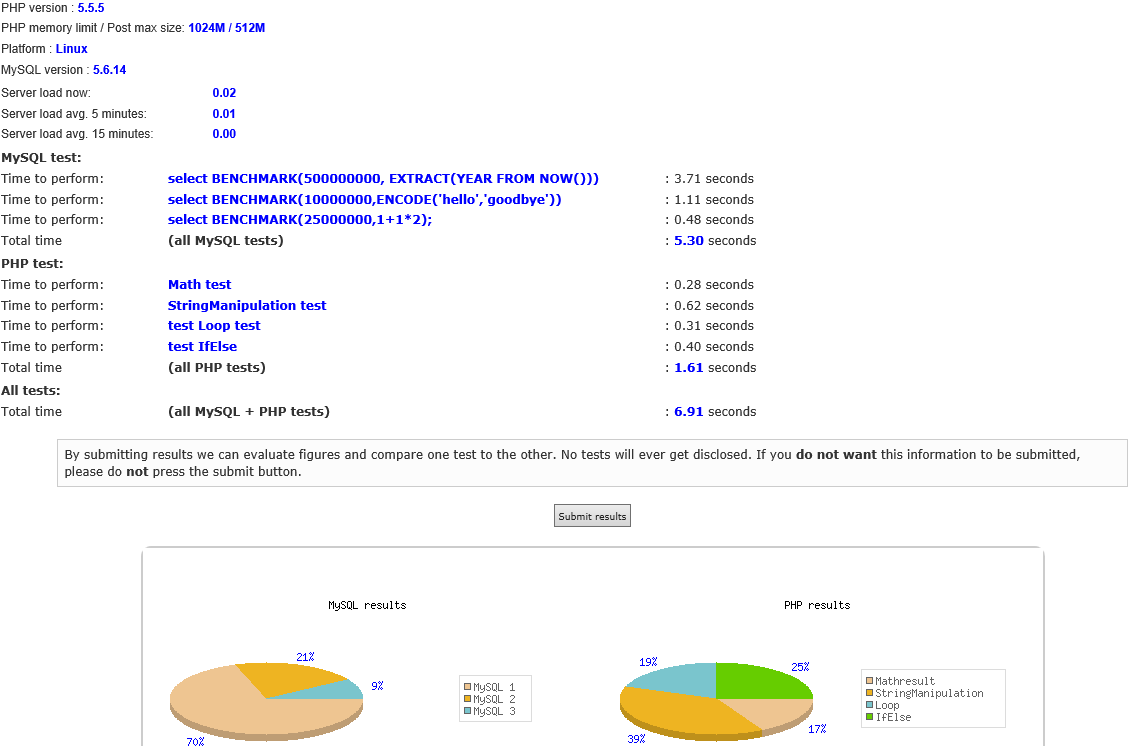
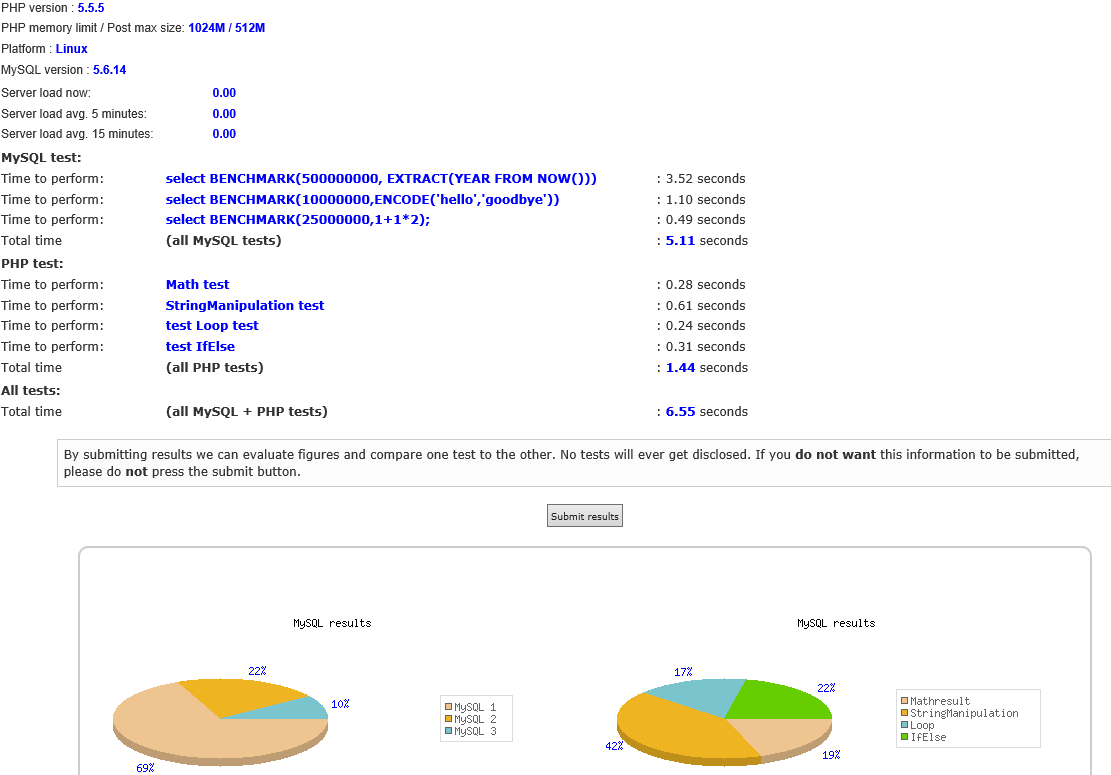
just a minor update..
git-svn-id: https://plugins.svn.wordpress.org/mywebtonet-performancestats/trunk@798474 b8457f37-d9ea-0310-8a92-e5e31aec5664

diff --git a/mywebtonet-performancestats.php b/mywebtonet-performancestats.php
@@ -12,7 +12,16 @@ Version: 1.0.4
 Author URI: http://www.mywebtonet.com 
 */
 
-$showtest	= $_GET["showtest"];
+// $showtest	= $_GET["showtest"];
+
+
+$ourdatamysql53 = array("MySQL 1" => 3.52,"MySQL 2" => 1.10,"MySQL 3" => 0.48);	
+$ourdatamysql54 = array("MySQL 1" => 3.53,"MySQL 2" => 1.13,"MySQL 3" => 0.50);	
+$ourdatamysql55 = array("MySQL 1" => 3.52,"MySQL 2" => 1.10,"MySQL 3" => 0.49);	
+$ourdataphp53 = array("PHP 1" => 1.45,"PHP 2" => 0.70,"PHP 3" => 0.40,"PHP 4" => 0.66);	
+$ourdataphp54 = array("PHP 1" => 0.29,"PHP 2" => 0.64,"PHP 3" => 0.29,"PHP 4" => 0.37);	
+$ourdataphp55 = array("PHP 1" => 0.28,"PHP 2" => 0.61,"PHP 3" => 0.24,"PHP 4" => 0.31);	
+
 
 if ( !defined('ABSPATH') ) {
 	echo "<center>You cant do this";
@@ -33,11 +42,14 @@ function myweb_init() {
                      
 function mywebtonetperftest_showfromdb($showtype) {
 	global $wpdb;
+	global $ourdatamysql55;
+	global $ourdataphp55;
+
 	$tableprefix = $wpdb->prefix."mywebtonetperfstatsresults";
 	mywebtonetperftest_createtable();
 	?>
 	<center>
-	<br><br>
+	
 	<?
 	if ($showtype == "fast") {
 		$headertext = "Best time";
@@ -56,7 +68,7 @@ function mywebtonetperftest_showfromdb($showtype) {
 	}
 
 	?>
-	<h3><? echo $headertext?></h3>
+	<br><br><h3><? echo $headertext?></h3>
 	<table width='90%' cellpadding=2 cellspacing=2 style='background: #FFFFFF;border-radius:10px;-moz-border-radius:10px;-webkit-border-radius:10px;border: 2px solid #cccccc;'>
 	<tr><td width=50%>
 	<table border=0>
@@ -94,20 +106,18 @@ function mywebtonetperftest_showfromdb($showtype) {
 	<?
 		$datamysql = array("MySQL 1" => $getdata->mysql1,"MySQL 2" => $getdata->mysql2,"MySQL 3" => $getdata->mysql3);	
 		$dataphp = array("PHP 1" => $getdata->php1,"PHP 2" => $getdata->php2,"PHP 3" => $getdata->php3,"PHP 4" => $getdata->php4);	
-		$ourdatamysql = array("MySQL 1" => 3.22,"MySQL 2" => 1.06,"MySQL 3" => 0.44);	
-		$ourdataphp = array("PHP 1" => 0.28,"PHP 2" => 0.59,"PHP 3" => 0.24,"PHP 4" => 0.29);	
 
 	?>		
 		<td valign='top' align='left'>
 			<table>
 			<tr>
 			<td><img src="<?php echo MYWEB_URL; ?>showgraphpie.php?showsmall=1&header=<?php echo urlencode(serialize("MySQL results")); ?>&mydata=<?php echo urlencode(serialize($datamysql)); ?>" /></td>
-			<td><img src="<?php echo MYWEB_URL; ?>showgraphpie.php?showsmall=1&header=<?php echo urlencode(serialize("PHP results")); ?>&mydata=<?php echo urlencode(serialize($dataphp)); ?>" /></td>
+			<td><img src="<?php echo MYWEB_URL; ?>showgraphpie.php?showsmall=1&header=<?php echo urlencode(serialize("MySQL results")); ?>&mydata=<?php echo urlencode(serialize($dataphp)); ?>" /></td>
 			<br>
 			</tr>
 			<tr>	
-			<td><img src="<?php echo MYWEB_URL; ?>showgraph.php?showsmall=1&header=<?php echo urlencode(serialize("MySQL results")); ?>&mywebdata=<?php echo urlencode(serialize($ourdatamysql));?>&mydata=<?php echo urlencode(serialize($datamysql)); ?>" /></td>
-			<td><img src="<?php echo MYWEB_URL; ?>showgraph.php?showsmall=1&header=<?php echo urlencode(serialize("PHP results")); ?>&mywebdata=<?php echo urlencode(serialize($ourdataphp)); ?>&mydata=<?php echo urlencode(serialize($dataphp)); ?>" /></td>
+			<td><img src="<?php echo MYWEB_URL; ?>showgraph.php?showsmall=1&header=<?php echo urlencode(serialize("Your data is the blue graph")); ?>&mywebdata=<?php echo urlencode(serialize($ourdatamysql55));?>&mydata=<?php echo urlencode(serialize($datamysql)); ?>" /></td>
+			<td><img src="<?php echo MYWEB_URL; ?>showgraph.php?showsmall=1&header=<?php echo urlencode(serialize("Your data is the blue graph")); ?>&mywebdata=<?php echo urlencode(serialize($ourdataphp55)); ?>&mydata=<?php echo urlencode(serialize($dataphp)); ?>" /></td>
 			</tr>	
 			</table>		
 		</td>
@@ -119,13 +129,53 @@ function mywebtonetperftest_showfromdb($showtype) {
 
 function mywebtonetperftest_showlist() {
 	global $wpdb;
+	global $ourdatamysql53;
+	global $ourdatamysql54;
+	global $ourdatamysql55;
+	global $ourdataphp53;
+	global $ourdataphp54;
+	global $ourdataphp55;
 	mywebtonetperftest_createtable();
+	$mysqltotal53 = sprintf("%10.2f",$ourdatamysql53["MySQL 1"] + $ourdatamysql53["MySQL 2"] + $ourdatamysql53["MySQL 3"]);
+	$mysqltotal54 = sprintf("%10.2f",$ourdatamysql54["MySQL 1"] + $ourdatamysql54["MySQL 2"] + $ourdatamysql54["MySQL 3"]);
+	$mysqltotal55 = sprintf("%10.2f",$ourdatamysql55["MySQL 1"] + $ourdatamysql55["MySQL 2"] + $ourdatamysql55["MySQL 3"]);
+	$phptotal53 = sprintf("%10.2f",$ourdataphp53["PHP 1"] + $ourdataphp53["PHP 2"] + $ourdataphp53["PHP 3"]  + $ourdataphp53["PHP 4"]);
+	$phptotal54 = sprintf("%10.2f",$ourdataphp54["PHP 1"] + $ourdataphp54["PHP 2"] + $ourdataphp54["PHP 3"]  + $ourdataphp54["PHP 4"]);
+	$phptotal55 = sprintf("%10.2f",$ourdataphp55["PHP 1"] + $ourdataphp55["PHP 2"] + $ourdataphp55["PHP 3"]  + $ourdataphp55["PHP 4"]);
 	$tableprefix = $wpdb->prefix."mywebtonetperfstatsresults";
+	$totaltime53 = sprintf("%10.2f",$mysqltotal53+$phptotal53);
+	$totaltime54 = sprintf("%10.2f",$mysqltotal54+$phptotal54);
+	$totaltime55 = sprintf("%10.2f",$mysqltotal55+$phptotal55);
 	?>
 	<br><br>
-	<table width='90%' cellpadding=2 cellspacing=2 style='background: #FFFFFF;border-radius:10px;-moz-border-radius:10px;-webkit-border-radius:10px;border: 2px solid #cccccc;'>
+	<table width='90%' border=1 cellpadding=2 cellspacing=2 style='background: #FFFFFF;border-radius:10px;-moz-border-radius:10px;-webkit-border-radius:10px;border: 2px solid #cccccc;'>
 	<tr><td>Time of test</td><td>Server name</td><td>Server addr</td><td>PHP version</td><td>MySQL version</td><td>MySQL test time</td><td>PHP Test time</td><td>Total time</td></tr>	
-	<?	
+	<?
+	echo "<tr><td>Sunday 3rd November 2013 23:45:11</td>
+		<td>MyWebToNet PHP 5.3 server</td>
+		<td>81.19.232.65</td><td>5.3.27</td>
+		<td>5.6.14</td>
+		<td>$mysqltotal53</td>
+		<td>$phptotal53</td>
+		<td><font color='blue'><b>$totaltime53</b></font></td>
+		</tr>";
+	echo "<tr><td>Sunday 3rd November 2013 23:44:21</td>
+		<td>MyWebToNet PHP 5.4 server</td>
+		<td>81.19.232.55</td><td>5.4.21</td>
+		<td>5.6.14</td>
+		<td>$mysqltotal54</td>
+		<td>$phptotal54</td>
+		<td><font color='blue'><b>$totaltime54</b></font></td>
+		</tr>";
+	echo "<tr><td>Sunday 3rd November 2013 23:48:33</td>
+		<td>MyWebToNet PHP 5.5 server</td>
+		<td>81.7.161.141</td><td>5.5.5</td>
+		<td>5.6.14</td>
+		<td>$mysqltotal55</td>
+		<td>$phptotal55</td>
+		<td><font color='blue'><b>$totaltime55</b></font></td>
+		</tr>";
+	
 	
 	$getdata = $wpdb->get_results("select sum(mysql1+mysql2+mysql3) as mysqlresult,sum(php1+php2+php3+php4) as phpresult,uniqid, servername, serveraddr, memorylimit,phpversion,postmaxsize,mysqlversion,phpos,serverloadnow,serverload5,serverload15,mysql1,mysql2,mysql3,php1,php2,php3,php4,deleteable,DATE_FORMAT(dt, '%W %D %M %Y %T') as tt,phpuname from $tableprefix group by uniqid order by dt asc;");
 	foreach ( $getdata as $getdata ) {
@@ -215,6 +265,8 @@ function mywebtonetperftest_plugin_all() {
 	global $testifelseresult;
 	global $mysqltemp;
 	global $mysqlresults;
+	global $ourdatamysql55;
+	global $ourdataphp55;
 	//	
 	$servername	= $_SERVER['SERVER_NAME'];
 	$serveraddr	= $_SERVER['SERVER_ADDR'];
@@ -300,20 +352,18 @@ function mywebtonetperftest_plugin_all() {
 	<?
 		$datamysql = array("MySQL 1" => $mysqlresults[0],"MySQL 2" => $mysqlresults[1],"MySQL 3" => $mysqlresults[2]);	
 		$dataphp = array("Mathresult" => $testmathresult,"StringManipulation " => $teststringresult,"Loop" => $testloopresult,"IfElse" => $testifelseresult);	
-		$ourdatamysql = array("MySQL 1" => 3.22,"MySQL 2" => 1.06,"MySQL 3" => 0.44);	
-		$ourdataphp = array("PHP 1" => 0.28,"PHP 2" => 0.59,"PHP 3" => 0.24,"PHP 4" => 0.29);	
 
 	?>
 		<td valign='top' align='left'>
 			<table>
 			<tr>
 			<td><img src="<?php echo MYWEB_URL; ?>showgraphpie.php?showsmall=0&header=<?php echo urlencode(serialize("MySQL results")); ?>&mydata=<?php echo urlencode(serialize($datamysql)); ?>" /></td>
-			<td><img src="<?php echo MYWEB_URL; ?>showgraphpie.php?showsmall=0&header=<?php echo urlencode(serialize("PHP results")); ?>&mydata=<?php echo urlencode(serialize($dataphp)); ?>" /></td>
+			<td><img src="<?php echo MYWEB_URL; ?>showgraphpie.php?showsmall=0&header=<?php echo urlencode(serialize("MySQL results")); ?>&mydata=<?php echo urlencode(serialize($dataphp)); ?>" /></td>
 			<br>
 			</tr>
 			<tr>	
-			<td><img src="<?php echo MYWEB_URL; ?>showgraph.php?showsmall=0&header=<?php echo urlencode(serialize("MySQL results")); ?>&mywebdata=<?php echo urlencode(serialize($ourdatamysql));?>&mydata=<?php echo urlencode(serialize($datamysql)); ?>" /></td>
-			<td><img src="<?php echo MYWEB_URL; ?>showgraph.php?showsmall=0&header=<?php echo urlencode(serialize("PHP results")); ?>&mywebdata=<?php echo urlencode(serialize($ourdataphp)); ?>&mydata=<?php echo urlencode(serialize($dataphp)); ?>" /></td>
+			<td><img src="<?php echo MYWEB_URL; ?>showgraph.php?showsmall=0&header=<?php echo urlencode(serialize("Your data is the blue graph")); ?>&mywebdata=<?php echo urlencode(serialize($ourdatamysql55));?>&mydata=<?php echo urlencode(serialize($datamysql)); ?>" /></td>
+			<td><img src="<?php echo MYWEB_URL; ?>showgraph.php?showsmall=0&header=<?php echo urlencode(serialize("Your data is the blue graph")); ?>&mywebdata=<?php echo urlencode(serialize($ourdataphp55)); ?>&mydata=<?php echo urlencode(serialize($dataphp)); ?>" /></td>
 			</tr>	
 			</table>		
 		</td>

diff --git a/showgraph.php b/showgraph.php
@@ -15,11 +15,11 @@ if ($showsmall) {
 $graph->addData($data);
 $graph->addData($data2);
 //$graph->setDataValues(true);
-$graph->setLegend(true);
-$graph->setLegendTitle('Your data','MyWebToNet');
+//$graph->setLegend(true);
+//$graph->setLegendTitle('Your data','MyWebToNet');
 $graph->setXValuesHorizontal(TRUE);
 $graph->setTitle($header);
-$graph->setTitleLocation('left');
+//$graph->setTitleLocation('left');
 $graph->setTextColor('blue');
 $graph->setBarColor('blue', 'green');
 //$graph->setLegend(TRUE);
